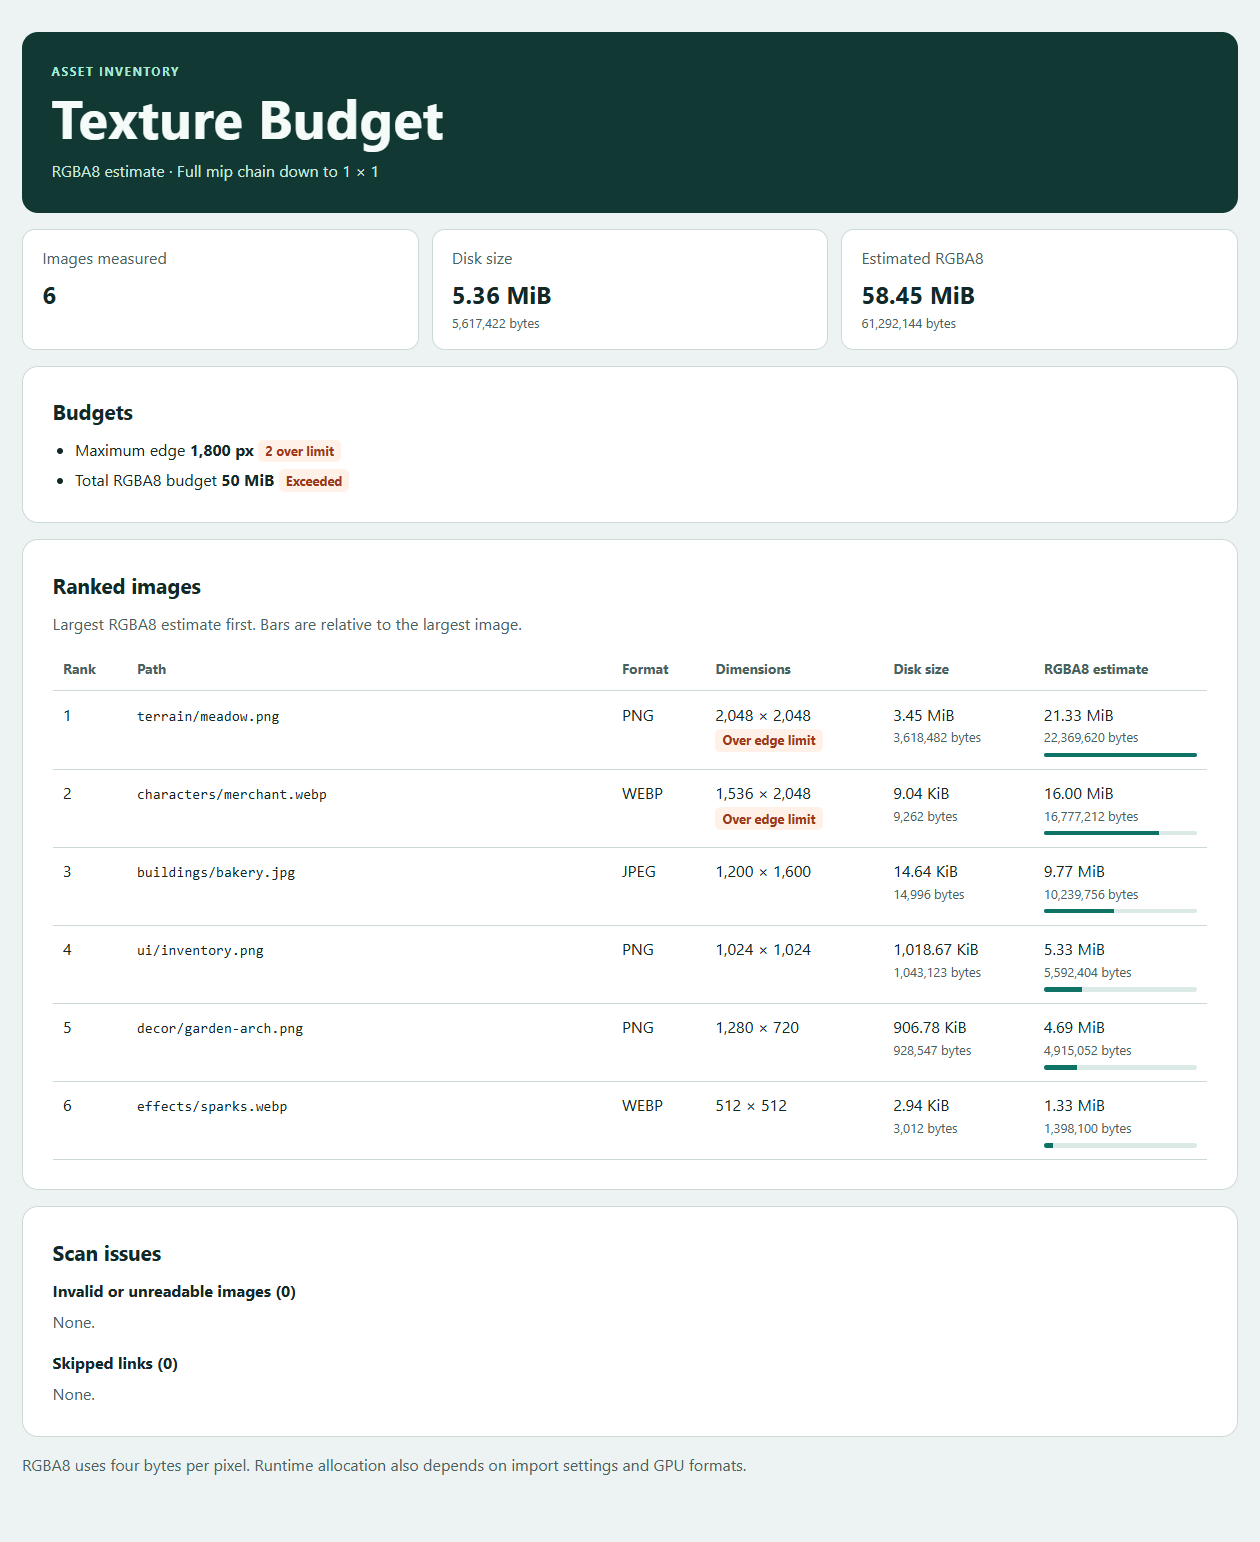
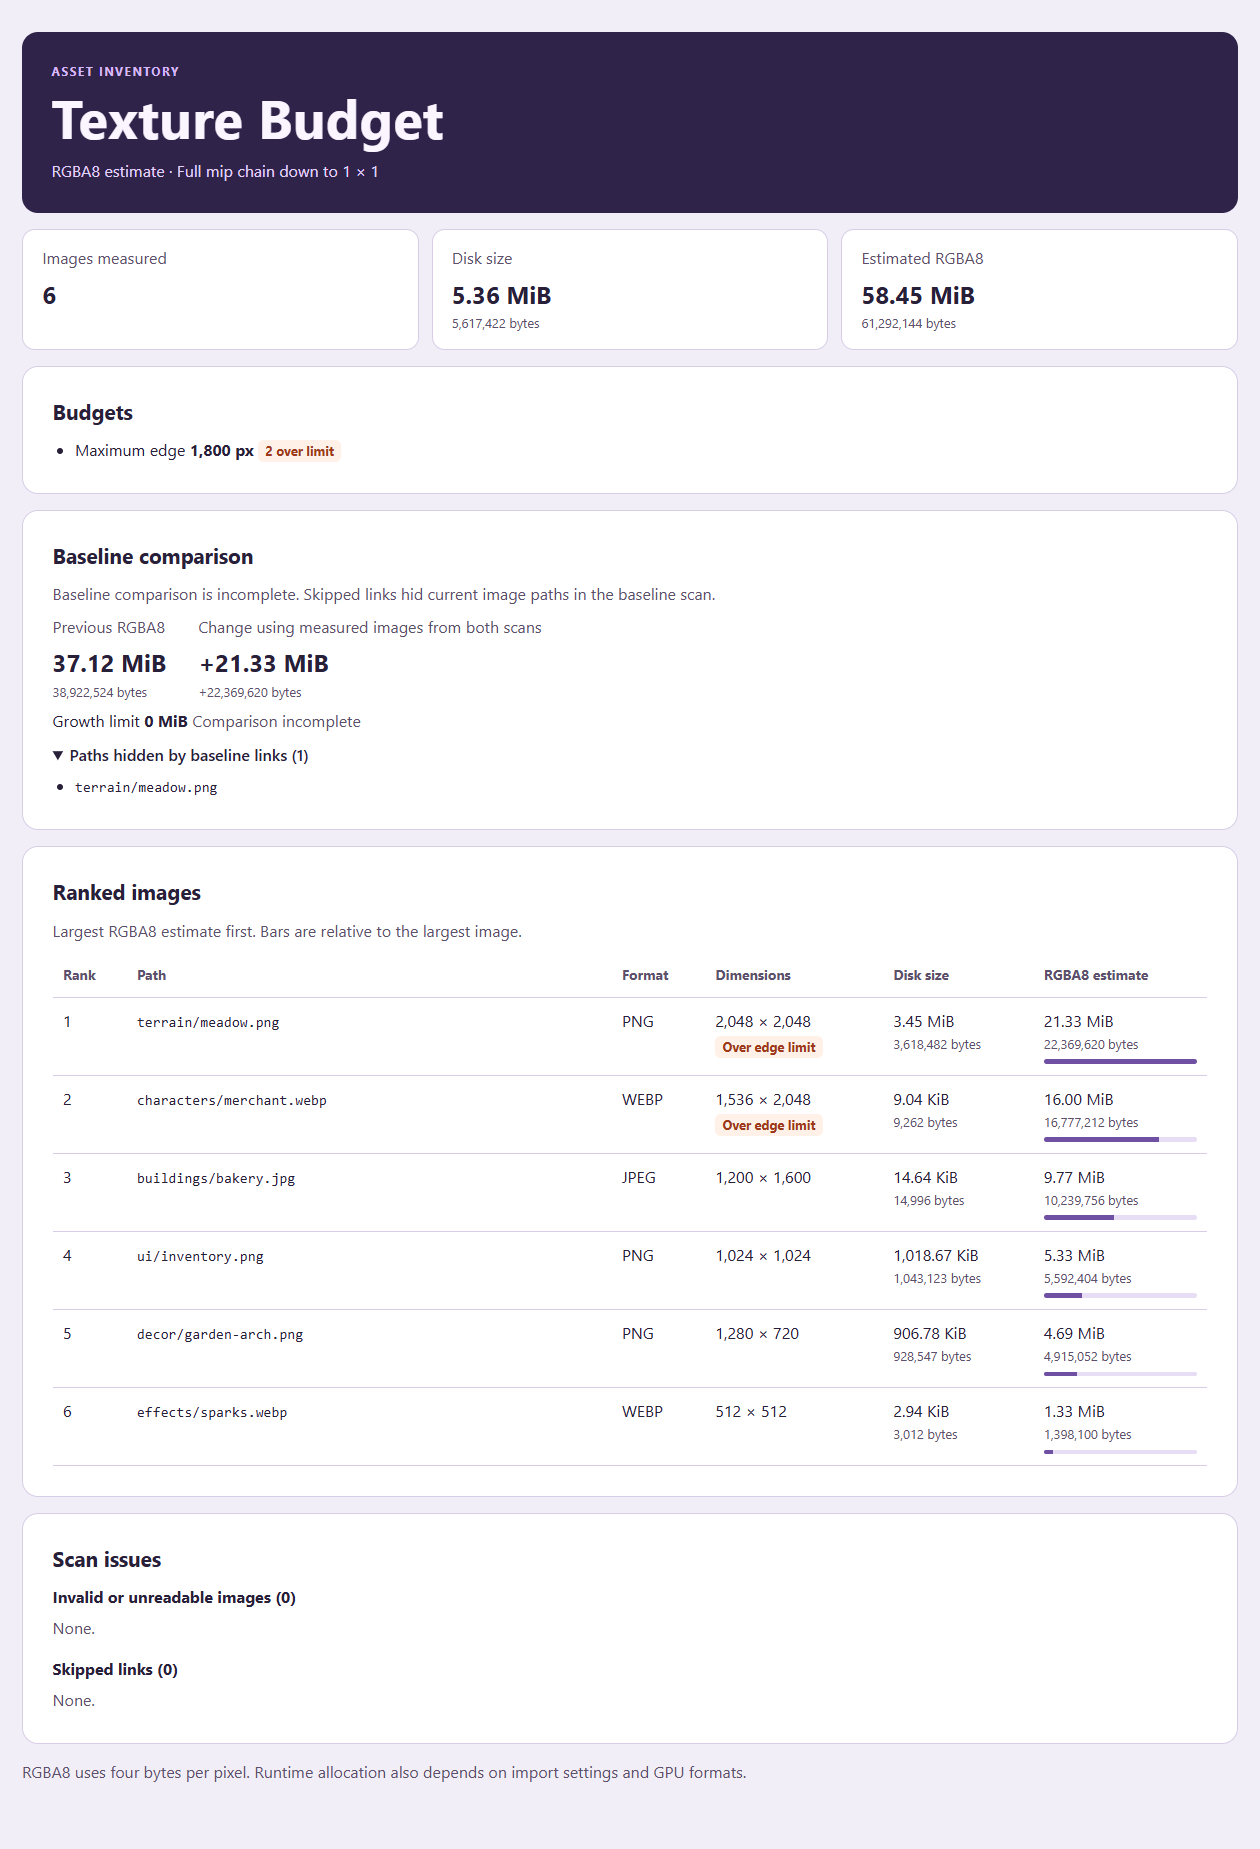
Detect paths hidden by skipped baseline links

diff --git a/README.md b/README.md
@@ -1,6 +1,6 @@
 # Texture Budget
 
-[![Tests](https://github.com/orangepony4/texture-budget/actions/workflows/test.yml/badge.svg)](https://github.com/orangepony4/texture-budget/actions/workflows/test.yml)
+[English](#quick-start) · [Русский](#русский) · [Automated tests](https://github.com/orangepony4/texture-budget/actions/workflows/test.yml)
 
 Check texture dimensions and estimate uncompressed RGBA8 memory before importing art into a game. Texture Budget scans PNG, JPEG, and WebP headers in a folder and ranks the largest textures. It runs locally without installing any package dependencies.
 
@@ -17,7 +17,7 @@ node bin/texture-budget.mjs "/path/to/assets"
 To use the `texture-budget` command from any directory, install a `.tgz` package from the [releases page](https://github.com/orangepony4/texture-budget/releases/latest).
 
 ```sh
-npm install --global ./texture-budget-0.4.0.tgz
+npm install --global ./texture-budget-0.4.7.tgz
 texture-budget --help
 ```
 
@@ -37,7 +37,7 @@ Use `--html` to save a report you can open in a browser or share with a teammate
 node bin/texture-budget.mjs assets --mipmaps --html > texture-report.html
 ```
 
-![Example report for six synthetic textures, showing estimated memory and two edge-limit violations](docs/report-preview.png)
+![Example report for six synthetic textures, showing a skipped baseline link and two edge-limit violations](docs/report-preview.png)
 
 | Exit code | Meaning |
 | --- | --- |
@@ -60,7 +60,7 @@ Both scans must use the same mipmap mode. The baseline must contain no invalid o
 
 If the current scan finds unreadable images or a skipped link covers a path in the baseline, the comparison reports an estimate based on readable images and adds `baseline.incomplete: true` to JSON. The affected paths stay out of the removal list, and the report lists unreadable images and skipped links under scan issues. The scan exits with code `1`.
 
-Если при текущей проверке изображение недоступно для чтения или путь из базового отчёта закрыт пропущенной ссылкой, сравнение учитывает только читаемые изображения и добавляет в JSON `baseline.incomplete: true`. Такие пути не считаются удалёнными. В отчёте отображаются нечитаемые изображения и пропущенные ссылки. Код завершения проверки — `1`.
+When a skipped link in the baseline covers a current image path, the report lists that path under **Paths hidden by baseline links** and in `baseline.pathsHiddenByBaselineLinks` in JSON. The comparison is incomplete and exits with code `1`. The difference between the measured totals is shown for reference. The growth limit remains undecided until the baseline covers those paths.
 
 ## Find the most expensive folders
 
@@ -75,7 +75,7 @@ node bin/texture-budget.mjs assets --mipmaps --group-depth 2 --html > folder-rep
 Add this step after checking out your repository. It uses GitHub Actions' Node.js runtime directly.
 
 ```yaml
-- uses: orangepony4/texture-budget@v0.4.1
+- uses: orangepony4/texture-budget@v0.4.7
   id: textures
   with:
     directory: assets
@@ -101,5 +101,24 @@ The action uses the same exit codes as the CLI. On a completed scan, `steps.text
 ## Development
 
 Run `npm test` for the CLI integration suite. The tests generate synthetic image headers and require no external services.
+
+## Русский
+
+Texture Budget проверяет размеры PNG, JPEG и WebP и оценивает расход памяти для несжатых текстур RGBA8. Для запуска нужен Node.js 20 или новее. После установки пакета из [релизов](https://github.com/orangepony4/texture-budget/releases/latest) запустите команду в папке проекта.
+
+```sh
+texture-budget assets --max-edge 2048 --max-image-mib 24 --max-total-mib 128 --mipmaps
+```
+
+Параметр `--mipmaps` включает все уровни вплоть до 1 × 1. Добавьте `--json` для отчёта, который можно обработать скриптом, или `--html` для просмотра в браузере.
+
+```sh
+texture-budget assets --mipmaps --json > texture-baseline.json
+texture-budget assets --mipmaps --baseline texture-baseline.json --max-growth-mib 8
+```
+
+Оба отчёта должны использовать одинаковый режим mipmap. Если при текущем сканировании часть изображений нечитаема или пропущенная ссылка закрывает ранее измеренный путь, сравнение получает код `1` и поле `baseline.incomplete: true`. Такие пути исключаются из списка удалений.
+
+Если ссылка была пропущена в исходном отчёте, пути под ней появляются в `baseline.pathsHiddenByBaselineLinks`. Для них неизвестен исходный размер, поэтому оценка роста остаётся предварительной. Сравнение помечается как неполное и завершается с кодом `1`.
 
 Released under the [MIT License](LICENSE).
